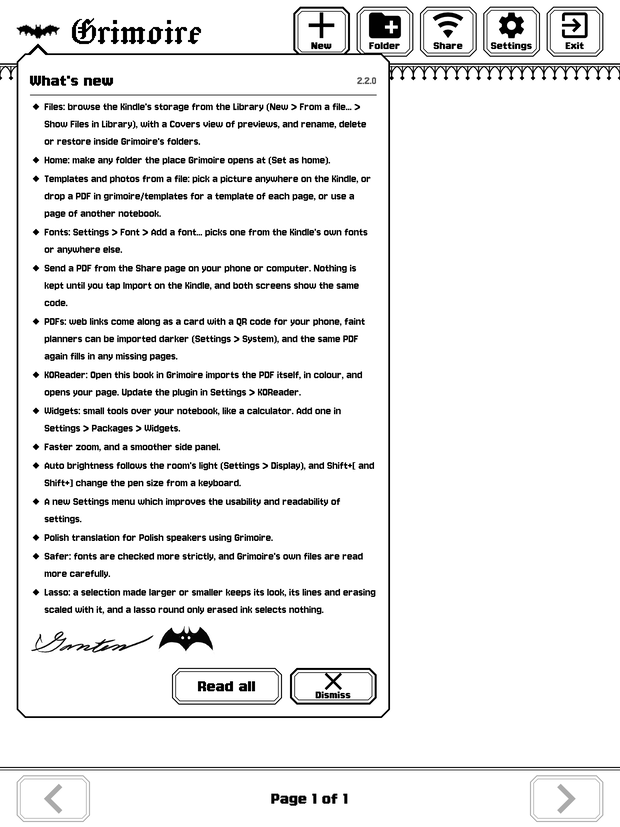
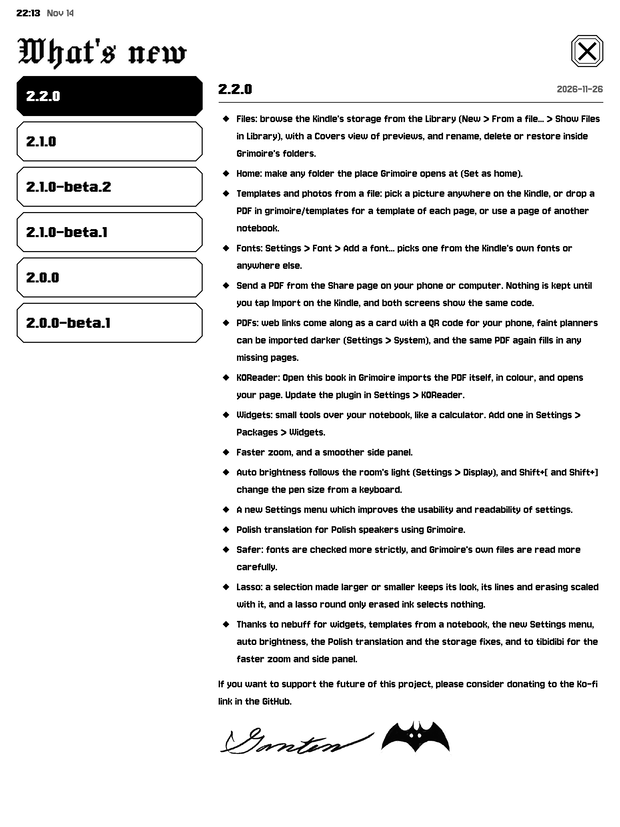
docs: RELEASING describes the What's new screen main has, and whatsnew.png is its picture
The redesign (#225) replaced the release's What's new card with a full screen: every version down
the left, the selected notes in the reader at the right, set to fit (about.rs). RELEASING's bump
commit now says how What's new is shown and checked on main: the unit tests that hold the notes
(the_archive_is_newest_first_and_one_entry_a_note, blocks_of_the_notes, the browser's two), and the
scenarios a release sets to its notes, z_about.qs, z_about_list.qs, z_about_1_update.qs and
z_about_3_hidden.qs, with z_about_classic.qs run beside them. The README's picture is made from
z_about's 01-browser.png with no date chunk, so the same shot gives the same file;
docs/screens/whatsnew.png is that picture from main (2.2.0's notes), and its alt text says What's
new, since it no longer shows the Library.

Refs #302

Claude-Session: https://claude.ai/code/session_01Uoe9ZJNyEZYoc4bsjqbSyQ

Changed region(s): [[0.0, 0.0, 1.0, 0.9976]]

diff --git a/docs/RELEASING.md b/docs/RELEASING.md
@@ -80,46 +80,71 @@ them.
    - `README.md`: the banner, `Pre-release VERSION.` (a stable release has no banner).
    - `docs/TESTING.md`: a `## VERSION` section, with what the owner checked on a Kindle and what
      still needs a device. Claim only what the owner reported.
-   - `docs/whatsnew/VERSION.md`, this version's What's new (`docs/whatsnew/2.1.0.md`): every release
+   - `docs/whatsnew/VERSION.md`, this version's What's new (`docs/whatsnew/2.2.0.md`): every release
      has one, at least a basic one (the owner's rule of 2026-11-05: "every update with changes by
      default has at least a basic what's new"), since the first start after an update opens it by
      itself. Each version's notes are a file of their own in `docs/whatsnew/` (since 2.1.0), and the
-     earlier ones stay as they were: What's new's Read all lists them all, newest first (the owner,
-     2026-11-06: "some of them are important"). Write the note while the CHANGELOG section is still
-     `(unreleased)` if you like; it is dated by the CHANGELOG, whose heading this commit dates (the
-     list shows `unreleased` until then), so the note itself has no date to write. Its title is
-     `# What's new (since PREVIOUS VERSION)` (the release before, as `2.0.0`), then the user-visible
-     changes in short bullets from the CHANGELOG, then the owner's closing and the `{signature}` line
-     as the last notes had them. The app compiles the folder in (build.rs lists it: a file there not
-     named `VERSION.md` stops the build), so the note is part of the build the owner tests. For a
-     release the owner vets the note and makes his changes to it: send it to him, and put his changes
-     in, before the gate (step 5) and his test (step 6). A change after his test is a new gate and a
-     new test, and the build he tested has already recorded the version as seen on his Scribe, so
-     changed notes would not open there by themselves. Every version released has a file of its own:
-     the preflight refuses a release without one, or with the release before's notes again, and the
-     gate's unit test (about.rs, `the_current_note_is_this_versions_else_the_newest`) fails a build
-     whose `VERSION` has none. Notes that are word for word an older release's (one that is not the
-     release before) show as one row naming each version. The card falls back to the newest notes
-     for a version without a file, which only a build made with another `VERSION` by hand can be.
-     `tests/scenarios/z_about.qs` states the notes' shape, in its comment and in
-     its checks: the card's `library.about.card_notes` and `card_blocks`, upright and sideways, and
-     the notes on the sheet, from the row `about.row.VERSION`, upright and sideways: one page
-     (`pages`; every version's notes fit one screen since 2.1.0, about.rs's
-     `every_note_fits_one_page_upright_and_sideways` fails a note that does not) at the size and the
-     leading that fit them (`body_px`, `lead`), and `tests/scenarios/z_about_classic.qs` the same in
-     Classic. `tests/scenarios/z_about_list.qs` states the list:
-     its rows (`library.about.row.N` and `row_date.N`, newest first), the row marked as this version's
-     (`library.about.marked`), and the refreshes its steps send. Set them to the new notes':
+     earlier ones stay as they were (the owner, 2026-11-06: "some of them are important").
+     **How What's new shows them** (about.rs, since 2.3.0): What's new is a full screen in the
+     Settings frame, its title and X at the top, every version's row down the left, newest first, and
+     the notes of the row selected in the reader at the right, under the version and its date. It
+     opens by itself once at the first start after an update (store.rs `whatsnew_due`, library.rs),
+     and from the Apps page's What's new button (the home's Show All); it opens on this version's
+     notes, its row selected, and the X or Esc closes it. The reader sets the notes to fit it whole:
+     their leading closer first (1.3 down to 1.15), then their type smaller, in half pixels from 44 px
+     down to the floor, 34 px (about.rs `fit_in`); notes that do not fit even there take pages, with
+     arrows under them. Write the note while the CHANGELOG section is still `(unreleased)` if you
+     like; it is dated by the CHANGELOG, whose heading this commit dates (the reader shows
+     `unreleased` until then), so the note itself has no date to write. Its title is
+     `# What's new (since PREVIOUS VERSION)` (the release before, as `2.1.0`; the reader shows the
+     version and its date in the title's place), then the user-visible changes in short bullets from
+     the CHANGELOG, then the owner's closing and the `{signature}` line as the last notes had them
+     (about.rs's `blocks_of_the_notes` fails a note that does not end with it). The app compiles the
+     folder in (build.rs lists it: a file there not named `VERSION.md` stops the build), so the note
+     is part of the build the owner tests. For a release the owner vets the note and makes his
+     changes to it: send it to him, and put his changes in, before the gate (step 5) and his test
+     (step 6). A change after his test is a new gate and a new test, and the build he tested has
+     already recorded the version as seen on his Scribe, so changed notes would not open there by
+     themselves. Every version released has a file of its own: the preflight refuses a release
+     without one, or with the release before's notes again, and the gate's unit test (about.rs,
+     `the_archive_is_newest_first_and_one_entry_a_note`) fails a build whose `VERSION` has none.
+     Notes that are word for word an older release's (one that is not the release before) show as
+     one row naming each version. What's new opens on the newest notes for a version without a file,
+     which only a build made with another `VERSION` by hand can be. about.rs's
+     `the_browser_lists_every_version_and_reads_the_selected_one` expects every row on one page of
+     the left column, and `every_versions_notes_read_whole_and_signed` the signature on the first
+     page of every version's notes, both in Gothic and Classic, upright and sideways: so every
+     version's notes fit the reader on one page.
+     **The scenarios that state the notes**, each set to the new notes in this commit (each names a
+     version or counts the rows, so every release changes them):
+     - `tests/scenarios/z_about.qs`: the rows (`library.about.entries` and `rows`, one more for each
+       release), this version's notes on opening (`note`, its row `marked` 1) on one page (`pages`) at
+       the size and leading that fit them (`body_px`, `lead`), with the signature (`signature`),
+       upright and sideways; then the row `about.row.2.0.0`, whose place (`marked`) moves down one
+       with each release, and its notes' `body_px` and `lead`.
+     - `tests/scenarios/z_about_list.qs`: every row, newest first (`library.about.row.N` and
+       `row_date.N`: this version's dated as the CHANGELOG's heading now is), this version's row
+       marked, the places (`marked`) of the rows it taps, and its comment's version and date.
+     - `tests/scenarios/z_about_1_update.qs` and `tests/scenarios/z_about_3_hidden.qs`: the first
+       start after an update opens this version's notes (`note`) among all the rows (`entries`,
+       `rows`).
+     - `tests/scenarios/z_about_classic.qs` states 2.0.0's notes in Classic, upright and sideways:
+       it changes only when the reader's width or the notes' look does, but runs with the others.
+
      `make scenarios SCENARIOS="tests/scenarios/z_about.qs tests/scenarios/z_about_list.qs
-     tests/scenarios/z_about_classic.qs" SCEN_NO_SELFTEST=1` names each check that differs, with the
-     value it found, and `build/shots/z_about/`, `build/shots/z_about_list/` and
-     `build/shots/z_about_classic/` show the card, which must end at a whole item, the list and the
-     notes. Notes too long to fit even at the floor (34 px) would take pages
-     at it: shorten them, or that test's rule is the owner's to change.
-   - `docs/screens/whatsnew.png`, the README's picture of the card, when its look or the notes
-     changed: `build/shots/z_about/01-card.png` from the gate of step 5, made 620x827 in grey
-     (`magick 01-card.png -colorspace Gray -filter Lanczos -resize '620x827!' -depth 8 whatsnew.png`).
-     The picture is not in the build, so it can come in the docs commit of step 6.
+     tests/scenarios/z_about_classic.qs tests/scenarios/z_about_1_update.qs
+     tests/scenarios/z_about_3_hidden.qs" SCEN_NO_SELFTEST=1` names each check that differs, with
+     the value it found, and `build/shots/z_about/`, `build/shots/z_about_list/` and
+     `build/shots/z_about_classic/` show the browser and the notes. Notes that would take pages even
+     at the floor (34 px) fail that unit test and z_about.qs's `pages`: shorten them, or that rule is
+     the owner's to change.
+   - `docs/screens/whatsnew.png`, the README's picture of What's new, when its look or the notes
+     changed: `build/shots/z_about/01-browser.png` (this version's notes, upright) from the gate of
+     step 5, made 620x827 in grey with no date in the file (`magick 01-browser.png -colorspace Gray
+     -filter Lanczos -resize '620x827!' -depth 8 -define png:exclude-chunks=date,time whatsnew.png`).
+     z_about.qs holds the status bar's clock still and in UTC, so the shot, and the picture made from
+     it, are the same on every run. The picture is not in the build, so it can come in the docs
+     commit of step 6.
    - `po/grimoire.pot` carries the version in its header: `make l10n` (needs GNU gettext) rewrites
      it, and the .po and .mo files with it. A stale header does no harm.
 

diff --git a/README.md b/README.md
@@ -30,7 +30,7 @@ Free software under the GPL-3.0. Not affiliated with or endorsed by Amazon.
 <img src="docs/screens/pages.png" width="32%" alt="The Pages view of a notebook">
 </p>
 <p>
-<img src="docs/screens/whatsnew.png" width="32%" alt="The Library and What's new">
+<img src="docs/screens/whatsnew.png" width="32%" alt="What's new">
 <img src="docs/screens/graph.png" width="32%" alt="The Graph of a notebook's linked pages">
 </p>
 <p><img src="docs/screens/papers.png" width="97%" alt="The papers a notebook can have"></p>
